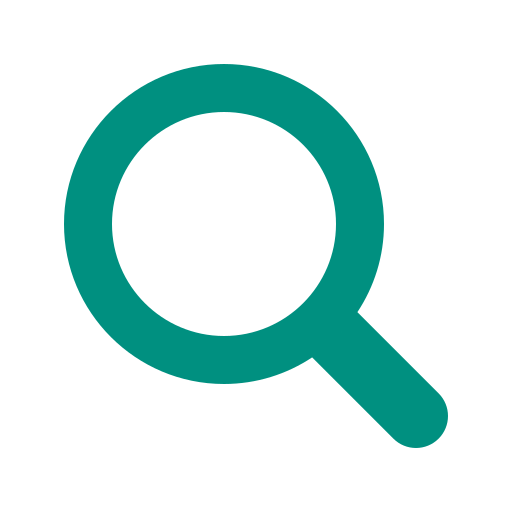
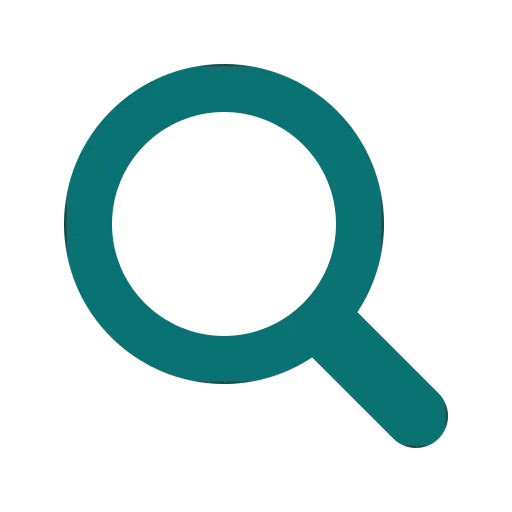
User header section

Changed region(s): [[0.125, 0.125, 0.875, 0.875]]

diff --git a/src/components/viajeros/viaj_home.module.css b/src/components/viajeros/viaj_home.module.css
@@ -11,6 +11,7 @@
 
   display: flex;
   justify-content: space-between;
+  align-items: center;
   position: relative; /* Importante para centrar el primer article */
 }
 
@@ -21,6 +22,7 @@
 }
 
 .header_logo {
+  user-select: none;
   width:max-content;
   text-align: center;
   display: flex;
@@ -53,15 +55,36 @@
   position: relative;
 }
 
-.search_nav {
-  width: 100%;
-}
+.search_nav { width: 100%;}
 
 .search_nav ul{
+  user-select: none;
+  margin-top: 10px;
+  margin-bottom: 20px;
+
+  font-size: 25px;
+  color: #737373;
   padding: 0;
   list-style: none;
   display: flex;
-  justify-content: space-between;
+  justify-content: space-around;
+}
+.search_nav li{
+  cursor: pointer;
+  padding: 0 10px;
+
+}
+.search_nav ul li:nth-child(2){
+  color: #0a7273;
+  font-weight: 700;
+}
+
+.search_nav li:not(:nth-child(2)):hover {
+  color: white;
+  border-radius: 15px;
+  outline: 10px solid #816b61;
+  box-shadow: 0 0 0 10px #816b61;
+  background-color: #816b61;
 }
 
 
@@ -76,7 +99,7 @@
   display: flex;
   align-items: center;
   background-color: white;
-  border: 2px solid #009080;
+  border: 2px solid #0a7273;
   border-radius: 60px;
   transition: box-shadow 0.1s ease-in-out;
 }
@@ -122,3 +145,56 @@
   color: white;
   font-weight: 500;
 }
+
+
+/*? PARTE DEL USUARIO*/
+.header_user_section{
+  display: flex;
+  flex-direction: column;
+  align-items: end;
+  gap: 10px;
+}
+.header_prof_user {
+  cursor: pointer;
+  user-select: none;
+  background-color: white;
+  border: 2px solid #545454;
+  border-radius: 60px;
+  display: flex;
+  align-items: center;
+  padding: 4px 15px;
+  gap: 5px;
+  transition: background-color 0.1s ease-in-out;
+}
+/* Hace que las imágenes se vean blancas */
+.header_prof_user:hover img { filter: brightness(0) invert(1); }
+.header_prof_user:hover { 
+  background-color: #009080;
+  border-color: #009080;
+}
+.header_prof_user img:nth-child(1){ width: 35px;}
+.header_prof_user img:nth-child(2){ width: 45px;}
+
+
+.user_search_form {
+  padding: 5px 10px;
+  display: flex;
+  align-items: center;
+  background-color: white;
+  border: 2px solid #545454;
+  border-radius: 15px;
+}
+.user_search_form:focus-within { border-color: #009080;}
+.user_search_form img {width: 35px;}
+
+.user_search {
+  width: 110px;
+  caret-color: #009080; 
+  font-family: "Nunito";  
+  border: none;
+  font-size: 20px;
+  font-weight: 500;
+}
+.user_search::placeholder{ color: #a6a6a6;}
+.user_search:focus { outline: none;}
+

diff --git a/src/components/viajeros/viaj_home.jsx b/src/components/viajeros/viaj_home.jsx
@@ -11,7 +11,7 @@ export default function Viajeros_Home() {
           <h2>Viajeros</h2>
         </div>
 
-        <article className={styles.search_container}>
+        <section className={styles.search_container}>
           <nav className={styles.search_nav}>
             <ul>
               <li>Inicio</li>
@@ -31,10 +31,20 @@ export default function Viajeros_Home() {
               <span>Filtros</span>
             </div>
           </div>
-        </article>
+        </section>
         
-        <article>
-        </article>
+
+        <section className={styles.header_user_section}>
+          <div className={styles.header_prof_user}>
+            <img src="images/logos/icono_user.webp" width="40"/>
+            <img src="images/logos/logo_user_vacio.webp" width="50"/>
+          </div>
+          
+          <form className={styles.user_search_form}>
+            <img src="images/logos/search_user.webp" width="40"/>
+            <input type="text" className={styles.user_search} name="encontrar user" placeholder="@username"/>
+          </form>
+        </section>
         {/*
           <section className="header_menu">
           <nav id="header_nav">
